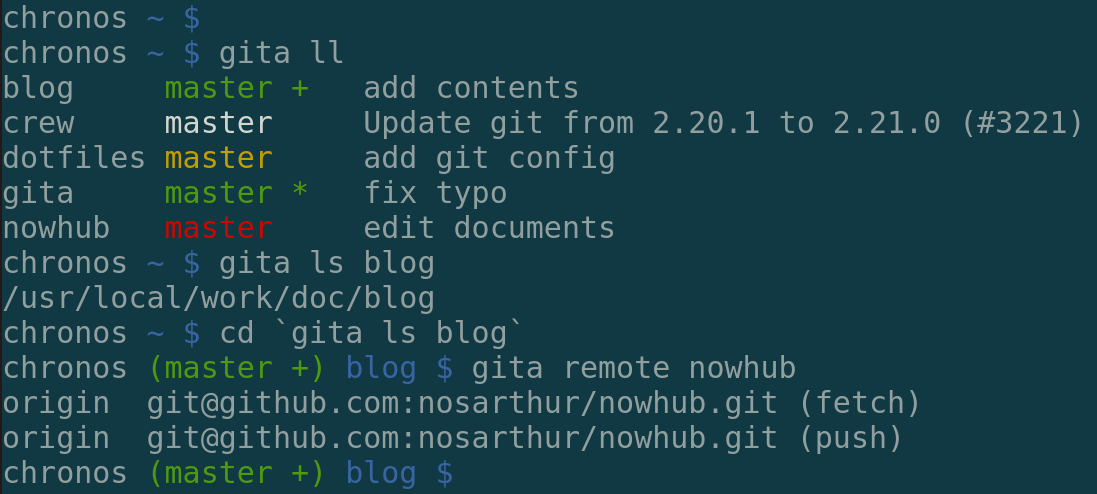
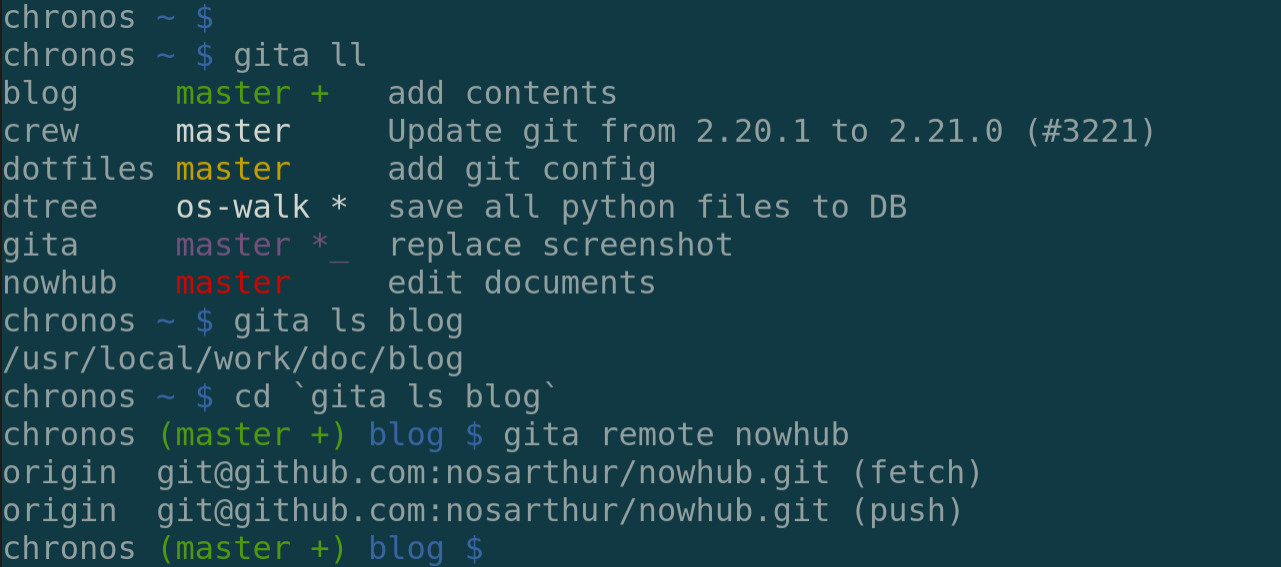
replace screenshot

Changed region(s): [[0.0, 0.0, 0.9918, 1.0]]

diff --git a/README.md b/README.md
@@ -157,11 +157,11 @@ alias gita="python3 -m gita"
 
 Windows users may need to enable the ANSI escape sequence in terminal, otherwise
 the branch color won't work.
-Follow this [stackoverflow post](https://stackoverflow.com/questions/51680709/colored-text-output-in-powershell-console-using-ansi-vt100-codes) for details.
+See [this stackoverflow post](https://stackoverflow.com/questions/51680709/colored-text-output-in-powershell-console-using-ansi-vt100-codes) for details.
 
 ## Auto-completion
 
-For auto completion, download
+Download
 [.gita-completion.bash](https://github.com/nosarthur/gita/blob/master/.gita-completion.bash)
 and source it in `.bashrc`.
 

diff --git a/README_CN.md b/README_CN.md
@@ -133,6 +133,8 @@ pip3 install -e <gita-source-folder>
 alias gita="python3 -m gita"
 ```
 
+Windows用户可能需要额外的设置来支持彩色的命令行， 见这个帖子。
+
 ## 自动补全
 
 下载
